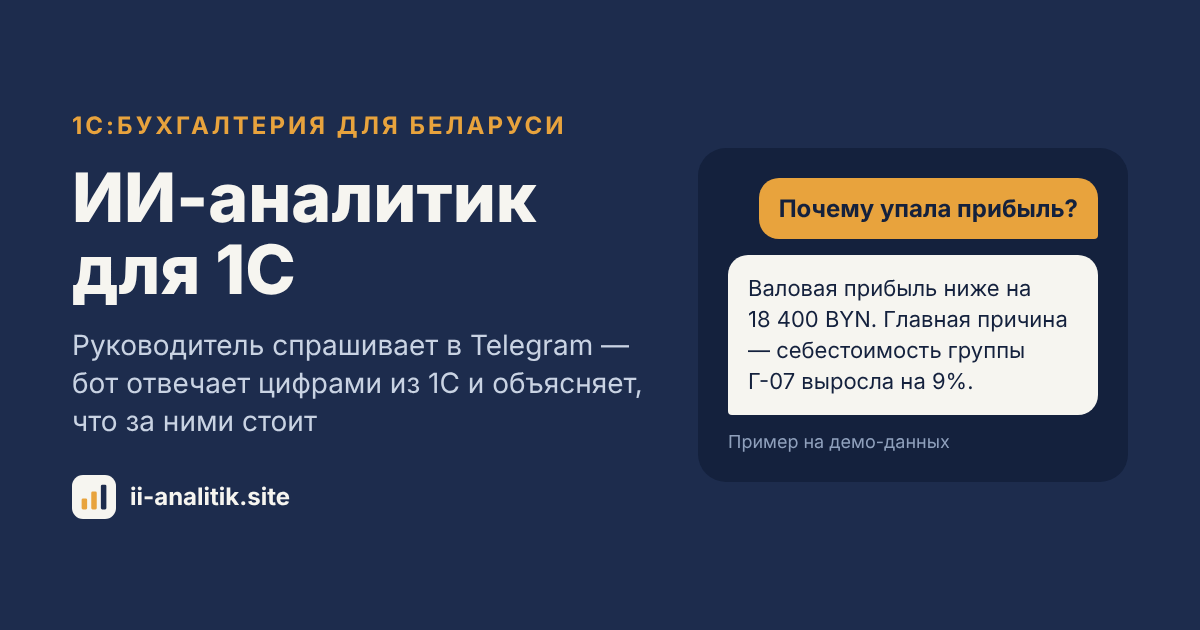
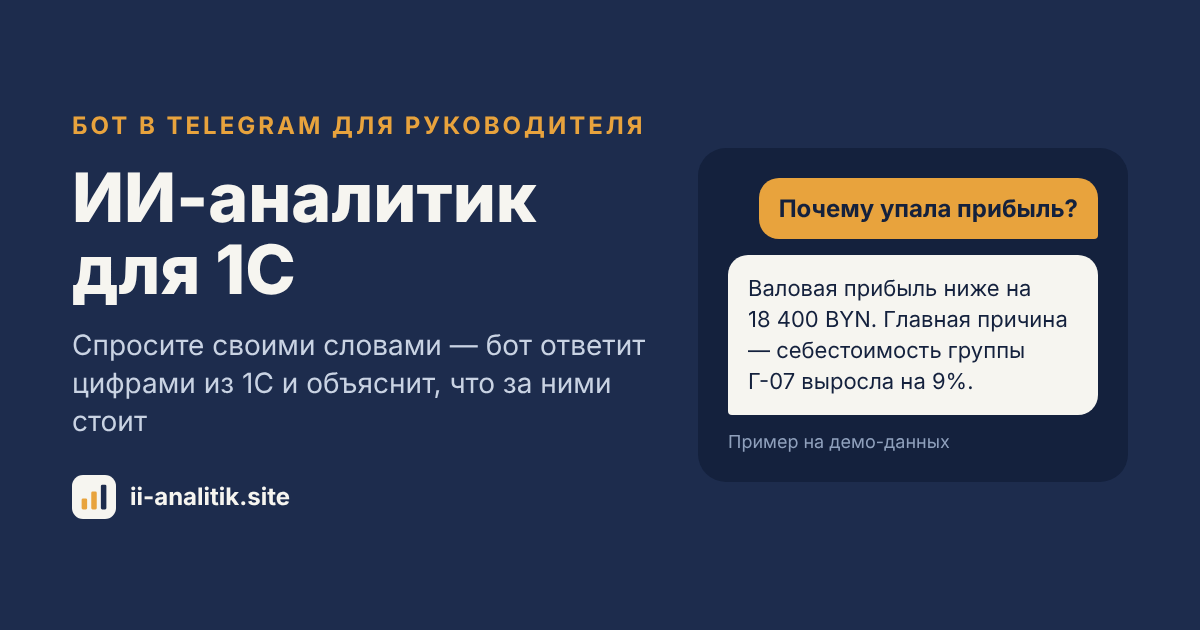
Сайт: ссылка на Telegram-канал, исправлены SEO-заголовки
Claude-Session: https://claude.ai/code/session_01G69YbKHEiuRZb6GxXWutYq

Changed region(s): [[0.0617, 0.5127, 0.5242, 0.6333], [0.0617, 0.181, 0.555, 0.2413], [0.0617, 0.6635, 0.2775, 0.6937]]

diff --git a/index.html b/index.html
@@ -3,14 +3,14 @@
 <head>
 <meta charset="utf-8">
 <meta name="viewport" content="width=device-width, initial-scale=1, viewport-fit=cover">
-<title>ИИ-аналитик для 1С:Бухгалтерии для Беларуси — бот в Telegram для руководителя</title>
-<meta name="description" content="Telegram-бот для руководителя на 1С:Бухгалтерии для Беларуси: вопросы обычным языком, ответы цифрами из 1С и анализ — прибыль, деньги, долги, ликвидность и риск банкротства. Набираем пилотные компании.">
+<title>ИИ-аналитик для 1С — анализ бизнеса в Telegram для руководителя</title>
+<meta name="description" content="Telegram-бот для руководителя: вопросы обычным языком, ответы цифрами из 1С и анализ — прибыль, деньги, долги, ликвидность и риск банкротства. Сейчас — 1С:Бухгалтерия для Беларуси, далее УТ, УНФ и конфигурации для РФ.">
 <link rel="canonical" href="https://ii-analitik.site/">
 <meta name="robots" content="index, follow">
 <meta property="og:type" content="website">
 <meta property="og:locale" content="ru_RU">
 <meta property="og:site_name" content="ИИ-аналитик для 1С">
-<meta property="og:title" content="ИИ-аналитик для 1С:Бухгалтерии для Беларуси">
+<meta property="og:title" content="ИИ-аналитик для 1С">
 <meta property="og:description" content="Руководитель спрашивает в Telegram — бот отвечает цифрами из 1С и объясняет, что за ними стоит.">
 <meta property="og:url" content="https://ii-analitik.site/">
 <meta property="og:image" content="https://ii-analitik.site/og-image.png">
@@ -18,7 +18,7 @@
 <meta property="og:image:height" content="630">
 <meta name="twitter:card" content="summary_large_image">
 <link rel="apple-touch-icon" href="apple-touch-icon.png">
-<script type="application/ld+json">{"@context": "https://schema.org", "@type": "SoftwareApplication", "name": "ИИ-аналитик для 1С", "url": "https://ii-analitik.site/", "applicationCategory": "BusinessApplication", "operatingSystem": "Telegram, 1С:Предприятие 8.3", "description": "Telegram-бот, который отвечает руководителю на вопросы цифрами из 1С:Бухгалтерии для Беларуси и объясняет их: почему изменилась прибыль, хватит ли денег, какая ликвидность и есть ли риск банкротства.", "inLanguage": "ru", "countriesSupported": "BY", "image": "https://ii-analitik.site/og-image.png", "publisher": {"@type": "Organization", "name": "ИИ-аналитик для 1С", "url": "https://ii-analitik.site/", "email": "egor.vin12345@gmail.com", "telephone": "+375295080210", "address": {"@type": "PostalAddress", "addressCountry": "BY"}, "founder": {"@type": "Person", "name": "Егор Виноградов"}, "sameAs": ["https://t.me/egorka_vin"]}}</script>
+<script type="application/ld+json">{"@context": "https://schema.org", "@type": "SoftwareApplication", "name": "ИИ-аналитик для 1С", "url": "https://ii-analitik.site/", "applicationCategory": "BusinessApplication", "operatingSystem": "Telegram, 1С:Предприятие 8.3", "description": "Telegram-бот, который отвечает руководителю на вопросы цифрами из 1С и объясняет их: почему изменилась прибыль, хватит ли денег, какая ликвидность и есть ли риск банкротства. Сейчас работает с 1С:Бухгалтерией для Беларуси, в планах УТ, УНФ и конфигурации для РФ.", "inLanguage": "ru", "image": "https://ii-analitik.site/og-image.png", "publisher": {"@type": "Organization", "name": "ИИ-аналитик для 1С", "url": "https://ii-analitik.site/", "email": "egor.vin12345@gmail.com", "telephone": "+375295080210", "address": {"@type": "PostalAddress", "addressCountry": "BY"}, "founder": {"@type": "Person", "name": "Егор Виноградов"}, "sameAs": ["https://t.me/ii_analitik_1c", "https://t.me/egorka_vin"]}}</script>
 <link rel="icon" href="favicon.svg" type="image/svg+xml">
 <link rel="preconnect" href="https://fonts.googleapis.com">
 <link rel="preconnect" href="https://fonts.gstatic.com" crossorigin>
@@ -40,6 +40,7 @@
       <a href="#together">Пилот</a>
       <a href="#partners">Партнёрам 1С</a>
       <a href="investors.html">Инвесторам</a>
+      <a href="https://t.me/ii_analitik_1c" target="_blank" rel="noopener">Канал</a>
       <a class="btn btn-amber" href="https://t.me/egorka_vin" target="_blank" rel="noopener">Написать в Telegram</a>
     </nav>
   </div>
@@ -334,7 +335,7 @@
 <footer>
   <div class="wrap">
     <p>© 2026 ИИ-аналитик для 1С</p>
-    <p><a href="#partners">Партнёрам 1С</a> · <a href="investors.html">Инвесторам</a></p>
+    <p><a href="https://t.me/ii_analitik_1c" target="_blank" rel="noopener">Канал в Telegram</a> · <a href="#partners">Партнёрам 1С</a> · <a href="investors.html">Инвесторам</a></p>
   </div>
 </footer>
 

diff --git a/investors.html b/investors.html
@@ -37,6 +37,7 @@
       <a href="#market">Рынок</a>
       <a href="#model">Модель</a>
       <a href="#plan">План</a>
+      <a href="https://t.me/ii_analitik_1c" target="_blank" rel="noopener">Канал</a>
       <a class="btn btn-amber" href="https://t.me/egorka_vin" target="_blank" rel="noopener">Связаться</a>
     </nav>
   </div>
@@ -181,7 +182,7 @@
 <footer>
   <div class="wrap">
     <p>© 2026 ИИ-аналитик для 1С</p>
-    <p><a href="index.html">Для компаний</a></p>
+    <p><a href="index.html">Для компаний</a> · <a href="https://t.me/ii_analitik_1c" target="_blank" rel="noopener">Канал в Telegram</a></p>
   </div>
 </footer>
 
